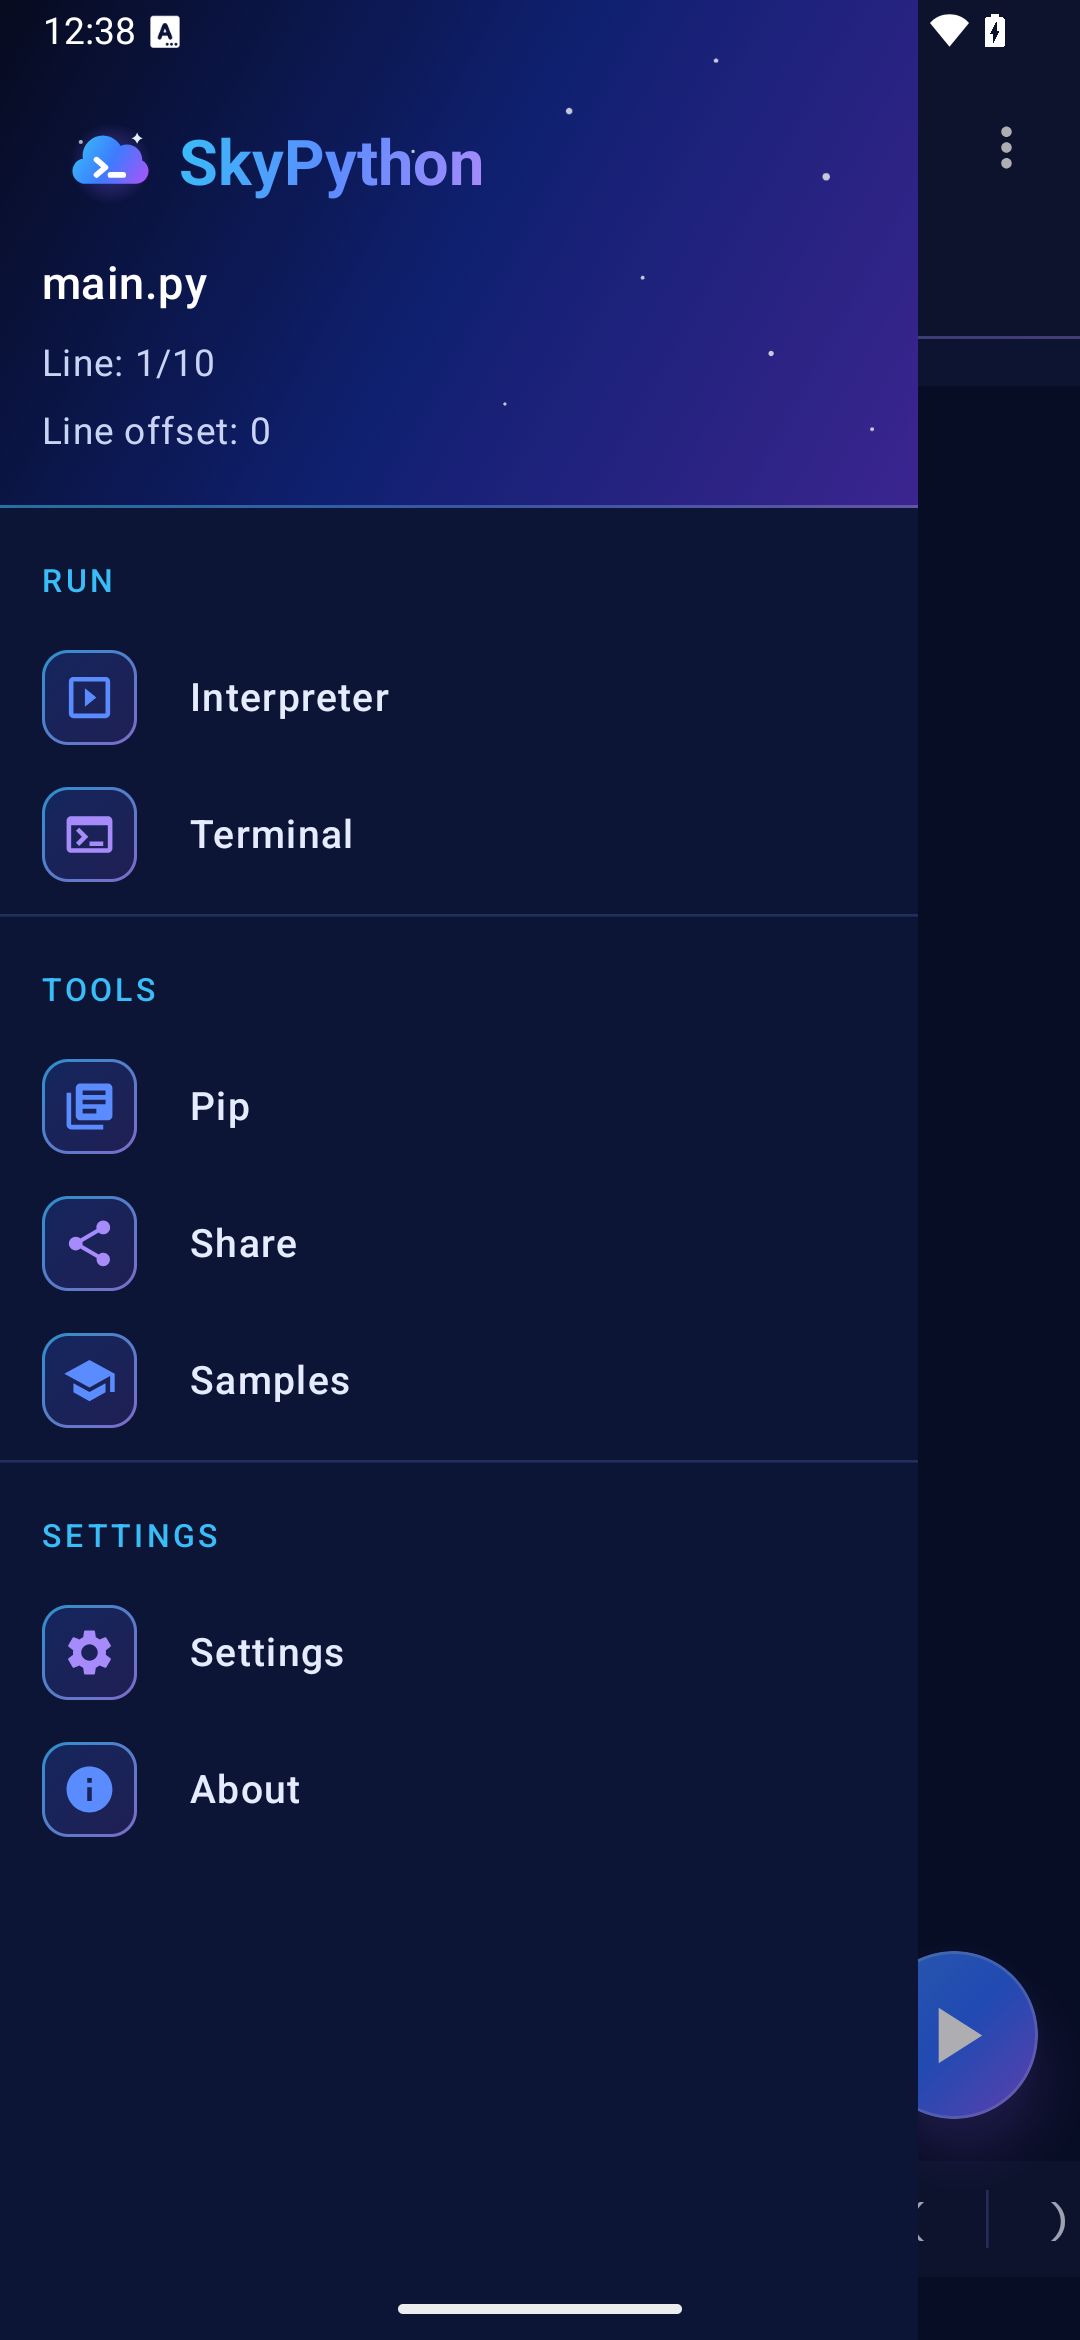
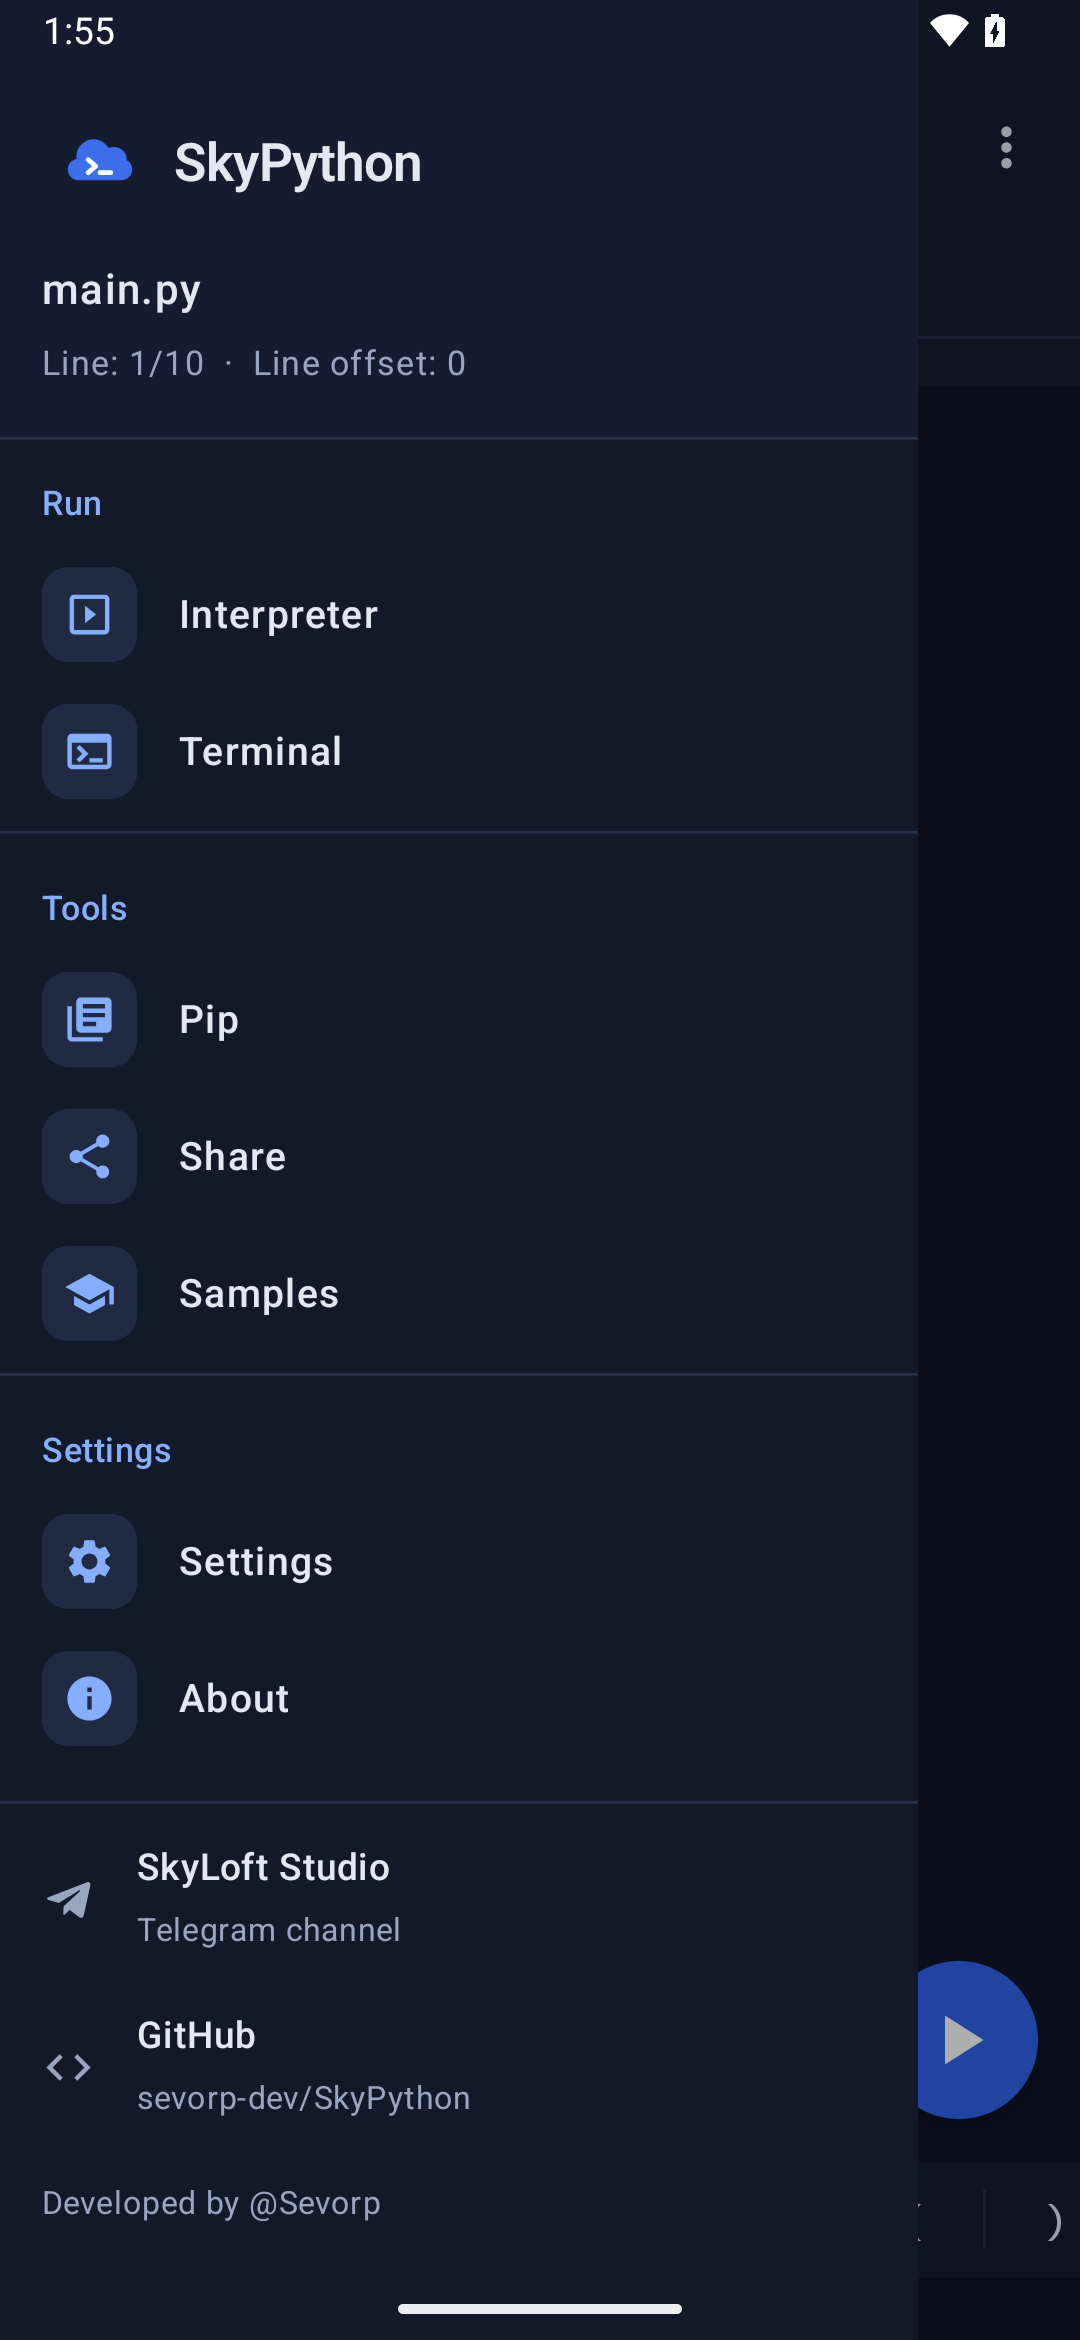
docs: README screenshots and wording for the calm theme

diff --git a/README.md b/README.md
@@ -53,7 +53,7 @@ Full details for every version: [CHANGELOG.md](CHANGELOG.md).
 |---|---|
 | 📝 **Code editor** | Python syntax highlighting, line numbers, word wrap, tabs for several files (`*` marks unsaved ones), undo/redo and a symbol bar with `Tab : ; ' " # ( ) [ ] { } = …` above the keyboard. |
 | 💡 **Code hints** | Completion while typing (modules, methods, your own names, installed packages) and red/yellow underlines for syntax errors, undefined names and unused imports — tap one to read it. Works offline. |
-| ▶ **Run** | One tap on the yellow ▶ runs the current file. Each run is a separate process, so **Stop** always works and a crashing script can't take the app down. |
+| ▶ **Run** | One tap on the blue ▶ runs the current file. Each run is a separate process, so **Stop** always works and a crashing script can't take the app down. |
 | 💻 **Console** | `print()` and `input()` just work; errors are shown in red with the exit code. **^C** sends Ctrl+C (`KeyboardInterrupt`) so a script can clean up; **Stop** ends it for sure. |
 | 🐍 **Interpreter** | The interactive Python shell (`>>>`) on a real terminal: line editing, history, colours, Ctrl+C interrupts without losing your session. |
 | ⌨ **Terminal** | A real terminal (colours, full-screen programs, Ctrl+C) with `python` and `pip` commands and a key row with Esc, Tab, Ctrl, Alt and arrows. |
@@ -62,7 +62,7 @@ Full details for every version: [CHANGELOG.md](CHANGELOG.md).
 | 🎓 **Samples** | Ready-to-run examples: input, loops, functions, classes, files, JSON, a small game. |
 | ⚙ **Settings** | Font size, word wrap, line numbers, keep screen on, code completion. |
 | 🔗 **Share** | Send the current script to any app. |
-| 🌌 **Night-sky theme** | Deep navy, electric blue and violet — easy on the eyes, day and night. |
+| 🌙 **Calm dark theme** | Flat deep navy with one blue accent, no glare — easy on the eyes, day and night. |
 
 Everything works **offline** except installing packages with pip.
 
